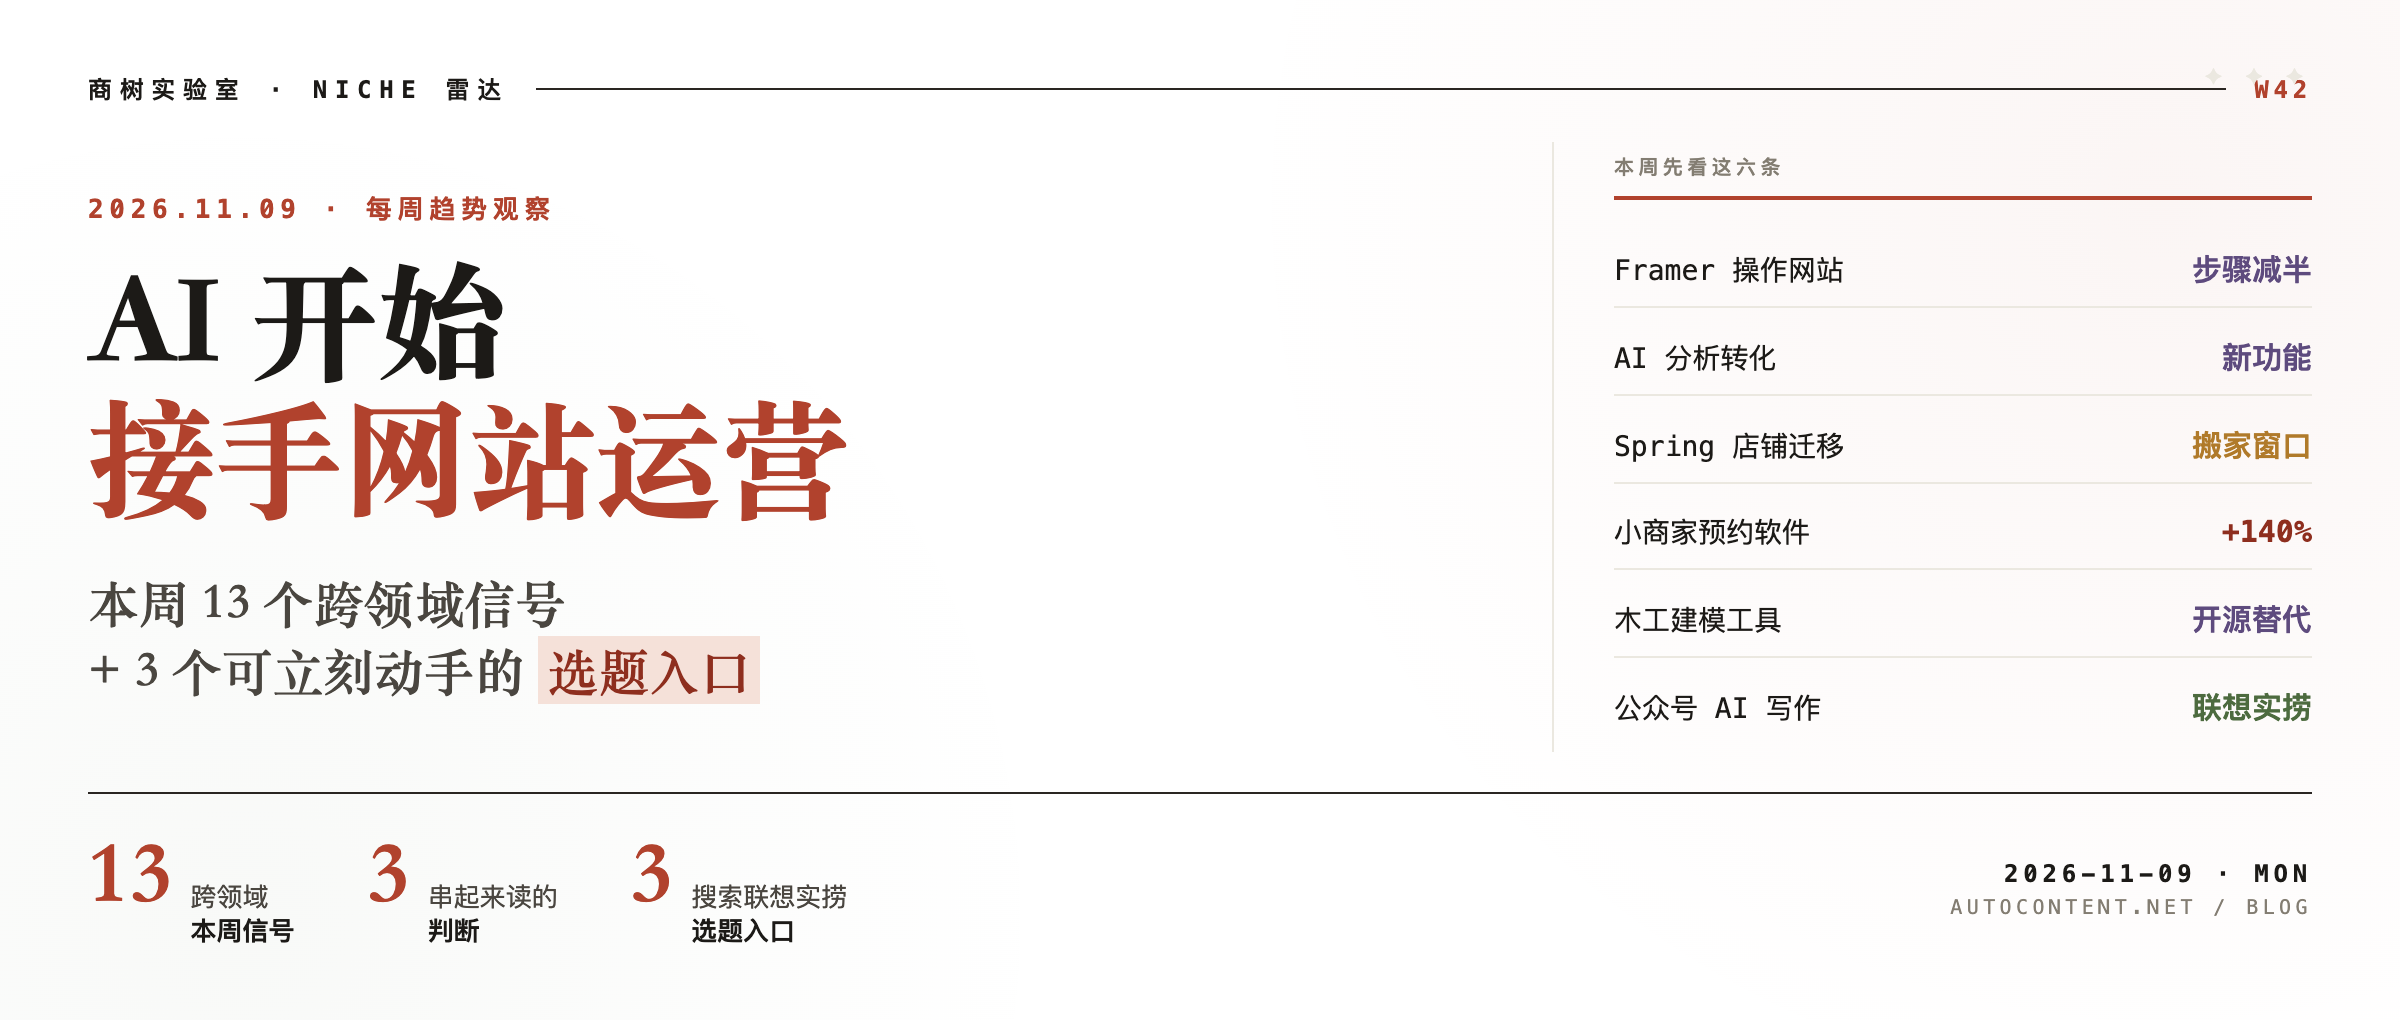
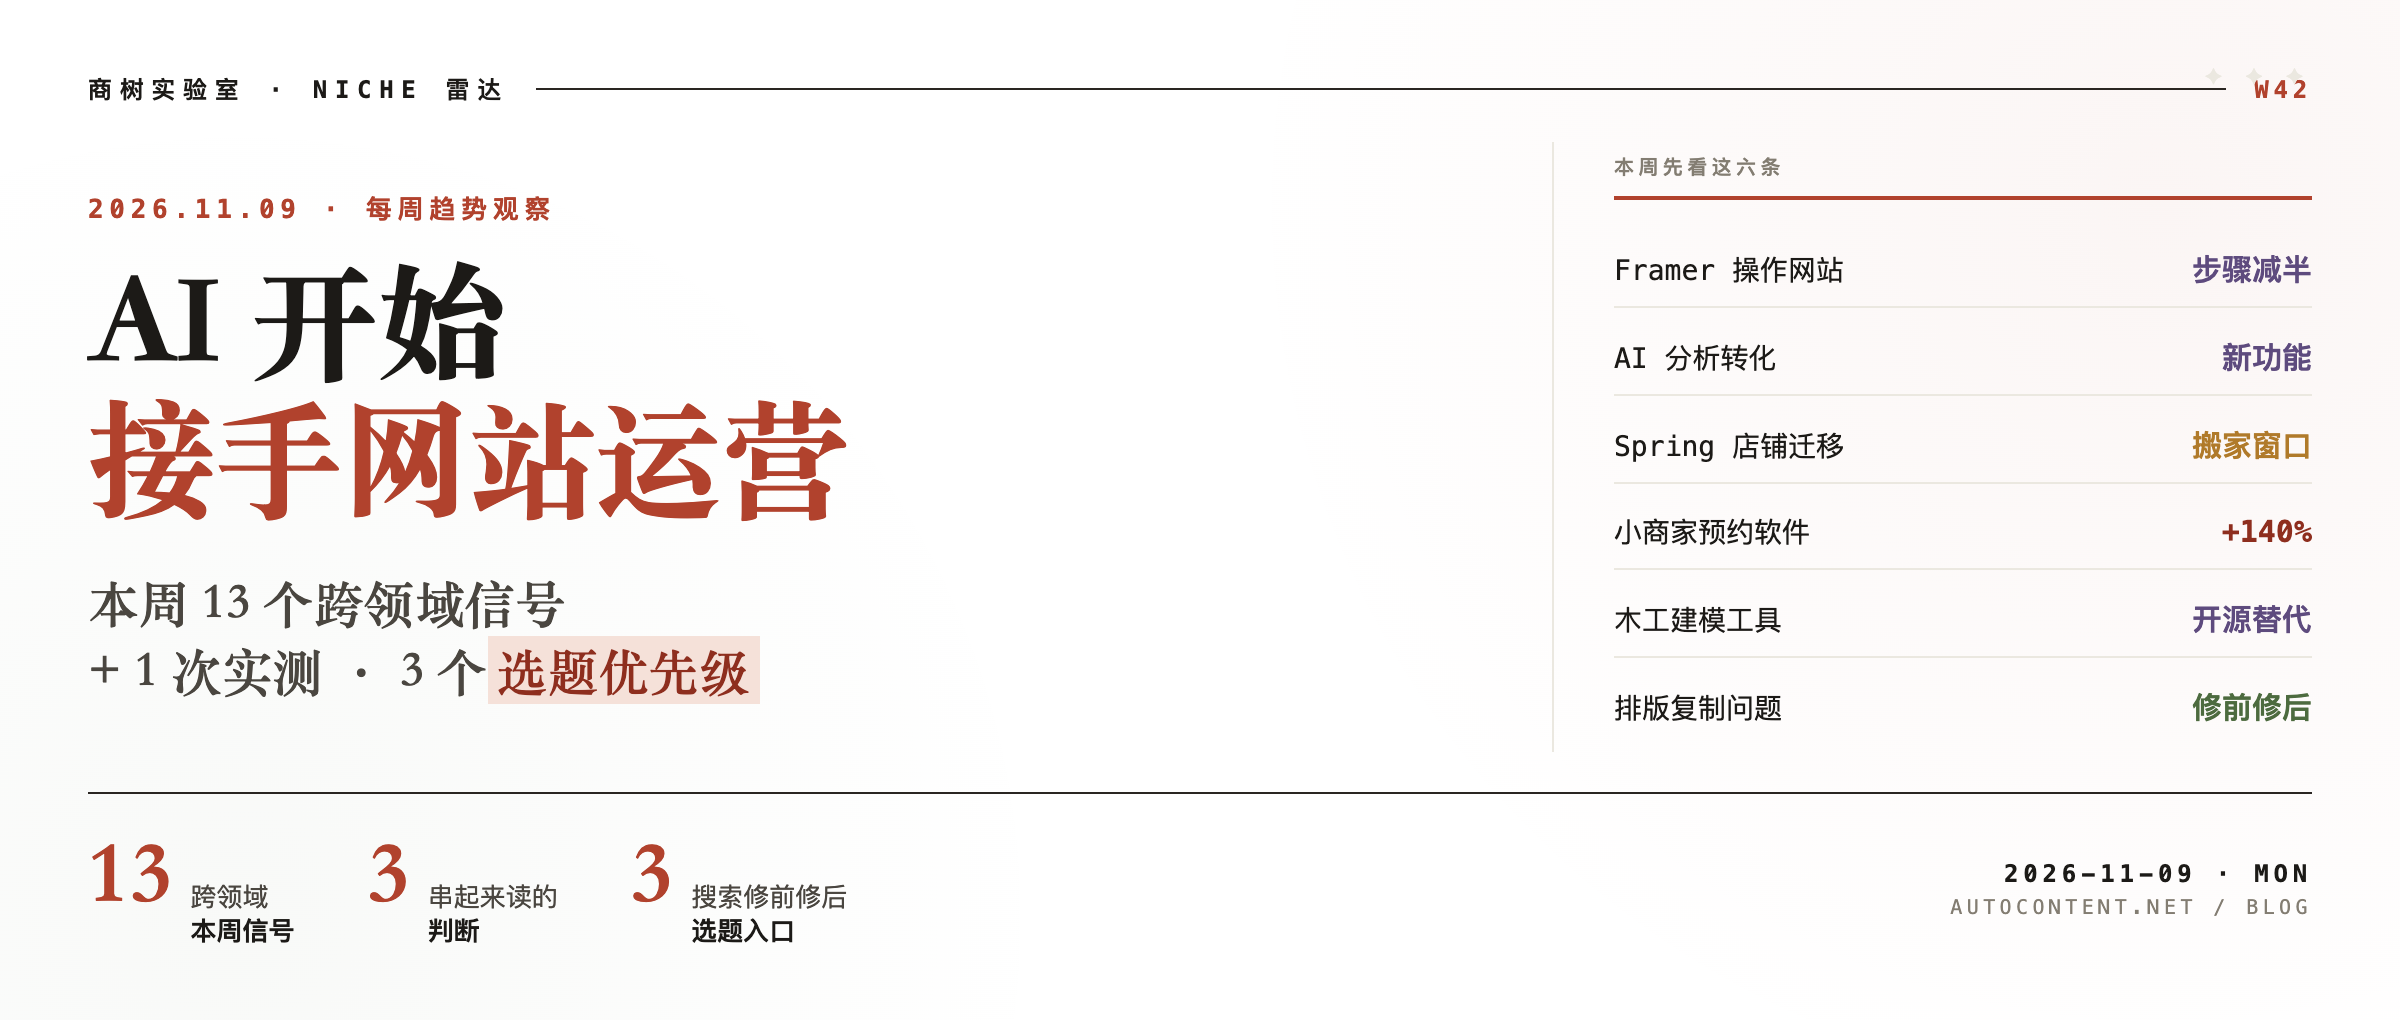
feat(radar): publish Nov 9 actionable digest and clipboard case study

diff --git a/app/tools/markdown-formatter/markdown-formatter-client.tsx b/app/tools/markdown-formatter/markdown-formatter-client.tsx
@@ -72,7 +72,7 @@ def hello():
 
 ### 引用
 
-> 一个好的标题等于一半的点击率。
+> 预览之后，还要检查复制、粘贴和最终发布效果。
 
 ---
 
@@ -88,9 +88,41 @@ img{max-width:100%;}
 </style></head><body>${bodyHtml}</body></html>`;
 }
 
+// Only export the formatting elements supported by this tool. Raw HTML from a
+// pasted Markdown document must not carry scripts, handlers or custom CSS out.
+function prepareClipboardContent(html: string) {
+  const doc = new DOMParser().parseFromString(html, "text/html");
+  doc.querySelectorAll("script,style,iframe,object,embed,svg,math,form,link,meta,base").forEach((node) => node.remove());
+  const allowed = new Set("h1 h2 h3 h4 h5 h6 p br ul ol li blockquote pre code hr a strong em del table thead tbody tfoot tr th td img".split(" "));
+  for (const node of Array.from(doc.body.querySelectorAll("*")).reverse()) {
+    const tag = node.tagName.toLowerCase();
+    if (!allowed.has(tag)) {
+      node.replaceWith(...Array.from(node.childNodes));
+      continue;
+    }
+    for (const attr of Array.from(node.attributes)) {
+      const name = attr.name.toLowerCase();
+      let keep = name === "alt" || name === "title";
+      if ((tag === "a" && name === "href") || (tag === "img" && name === "src")) {
+        try {
+          const url = new URL(attr.value, window.location.origin);
+          keep = ["https:", "http:"].includes(url.protocol) || (tag === "a" && url.protocol === "mailto:");
+        } catch { keep = false; }
+      }
+      if (!keep) node.removeAttribute(attr.name);
+    }
+  }
+  const textDoc = doc.body.cloneNode(true) as HTMLElement;
+  textDoc.querySelectorAll("br").forEach((node) => node.replaceWith("\n"));
+  textDoc.querySelectorAll("h1,h2,h3,h4,h5,h6,p,li,blockquote,pre,tr").forEach((node) => node.append("\n"));
+  textDoc.querySelectorAll("th,td").forEach((node) => node.append("\t"));
+  return { html: applyInlineStyles(doc.body.innerHTML), text: textDoc.textContent ?? "" };
+}
+
 export function MarkdownFormatterClient() {
   const [md, setMd] = useState(SAMPLE);
   const [copied, setCopied] = useState(false);
+  const [copyError, setCopyError] = useState("");
 
   const html = useMemo(() => {
     try {
@@ -110,12 +142,22 @@ export function MarkdownFormatterClient() {
   }, [md]);
 
   const handleCopy = async () => {
+    setCopied(false);
+    setCopyError("");
     try {
-      await navigator.clipboard.writeText(html);
+      if (!navigator.clipboard?.write || typeof ClipboardItem === "undefined") {
+        setCopyError("当前浏览器不支持复制排版内容，请换用最新版 Chrome、Edge 或 Safari，或直接选中右侧预览后复制。");
+        return;
+      }
+      const content = prepareClipboardContent(html);
+      await navigator.clipboard.write([new ClipboardItem({
+        "text/html": new Blob([content.html], { type: "text/html" }),
+        "text/plain": new Blob([content.text], { type: "text/plain" }),
+      })]);
       setCopied(true);
       setTimeout(() => setCopied(false), 1500);
     } catch {
-      // ignore
+      setCopyError("复制未成功。请允许浏览器访问剪贴板后重试，或直接选中右侧预览后复制。");
     }
   };
 
@@ -142,8 +184,9 @@ export function MarkdownFormatterClient() {
             onClick={handleCopy}
             className="mt-3 px-5 py-2.5 rounded-lg bg-blue-600 hover:bg-blue-700 text-white text-sm font-medium transition-colors"
           >
-            {copied ? "✓ HTML 已复制" : "复制公众号 HTML"}
+            {copied ? "✓ 排版内容已复制" : "复制排版内容"}
           </button>
+          <p role="status" aria-live="polite" className="mt-2 text-sm text-[var(--accent-strong)]">{copyError}</p>
         </div>
 
         {/* Preview (iframe sandbox 隔离用户输入) */}
@@ -153,7 +196,7 @@ export function MarkdownFormatterClient() {
               公众号预览
             </label>
             <span className="text-xs text-gray-500 dark:text-gray-500">
-              实际效果（含 inline 样式）
+              浏览器预览，粘贴后请再次检查
             </span>
           </div>
           <iframe
@@ -163,8 +206,11 @@ export function MarkdownFormatterClient() {
             className="flex-1 min-h-[500px] w-full rounded-lg border border-gray-300 dark:border-gray-700 bg-white"
           />
           <p className="mt-3 text-xs text-gray-500 dark:text-gray-500">
-            把 HTML 复制后，到公众号编辑器右上角点「全屏编辑」→ 顶部点 ⟨/⟩ 按钮粘贴
+            点击「复制排版内容」，在公众号图文正文中直接粘贴。发布前检查标题、列表、表格和图片；不要使用“粘贴为纯文本”。
           </p>
+          <Link href="/blog/markdown-wechat-copy-format" className="mt-2 text-sm text-[var(--accent)] underline">
+            复制后出现代码或格式丢失？查看检查步骤与实测记录
+          </Link>
         </div>
       </div>
 

diff --git a/app/tools/markdown-formatter/page.tsx b/app/tools/markdown-formatter/page.tsx
@@ -5,7 +5,7 @@ import { CTASection, RelatedFeatures } from "@/app/components/marketing-shell";
 export const metadata: Metadata = {
   title: "Markdown 转公众号 — 免费在线排版工具 | AutoContent",
   description:
-    "免费 Markdown 转公众号工具：实时预览公众号样式，一键复制带 inline 样式的 HTML。支持代码块、表格、列表、引用。无需注册，不上传内容。",
+    "免费 Markdown 转公众号工具：实时预览公众号样式，一键复制带样式的正文。支持代码块、表格、列表、引用。无需注册，不上传内容。",
   keywords: [
     "公众号排版工具",
     "公众号排版免费",
@@ -19,7 +19,7 @@ export const metadata: Metadata = {
   },
   openGraph: {
     title: "Markdown 转公众号 — 免费在线排版工具",
-    description: "实时预览 + 一键复制公众号 HTML，无需注册。",
+    description: "实时预览 + 一键复制排版内容，无需注册。",
     url: "https://autocontent.net/tools/markdown-formatter",
     type: "website",
     locale: "zh_CN",
@@ -38,7 +38,7 @@ export default function Page() {
             Markdown 转公众号
           </h1>
           <p className="mt-4 text-base text-[var(--ink-soft)] dark:text-gray-400 max-w-xl mx-auto">
-            左边贴 Markdown，右边看公众号样式预览。一键复制带 inline 样式的 HTML。
+            左边贴 Markdown，右边看公众号样式预览。一键复制带样式的正文。
             免费、不上传你的内容。
           </p>
         </div>
@@ -55,18 +55,8 @@ export default function Page() {
             为什么需要这个工具
           </h2>
           <div className="space-y-3 text-base text-[var(--ink-soft)] dark:text-gray-300 leading-relaxed">
-            <p>
-              微信公众号编辑器的 HTML 渲染引擎堪比 IE6。它会：
-            </p>
-            <ul className="list-disc pl-6 space-y-1">
-              <li>完全忽略 <code className="bg-gray-200 dark:bg-gray-700 px-1.5 py-0.5 rounded text-xs">&lt;style&gt;</code> 标签</li>
-              <li>完全忽略 <code className="bg-gray-200 dark:bg-gray-700 px-1.5 py-0.5 rounded text-xs">class</code> 属性</li>
-              <li>把你的 Markdown 解析成 plain text，所有样式全部丢失</li>
-            </ul>
-            <p>
-              所以你必须把每一个 HTML 元素的样式 <strong className="text-[var(--ink)] dark:text-white">直接 inline 写到 style 属性里</strong>。
-              这个工具自动帮你做这件事——你写 Markdown，输出立刻就是公众号能正确显示的 HTML。
-            </p>
+            <p>预览正常，不代表粘贴后的内容也相同。这个工具将 Markdown 转成带内联样式的正文，并提供富文本复制。</p>
+            <p>在公众号图文正文中直接粘贴后，请检查标题、列表、表格和图片，再使用平台预览确认最终效果。不同编辑器可能调整样式。</p>
             <p className="text-sm text-[var(--ink-muted)] dark:text-gray-500 mt-4">
               🔒 所有处理在你浏览器里完成，不上传任何内容到服务器。
             </p>
